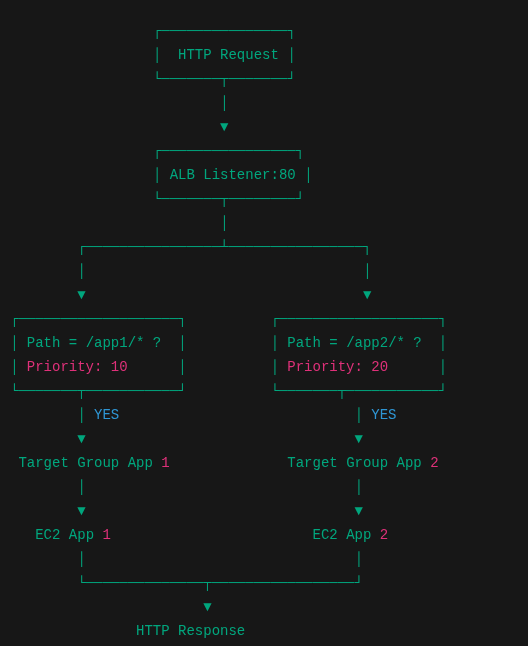
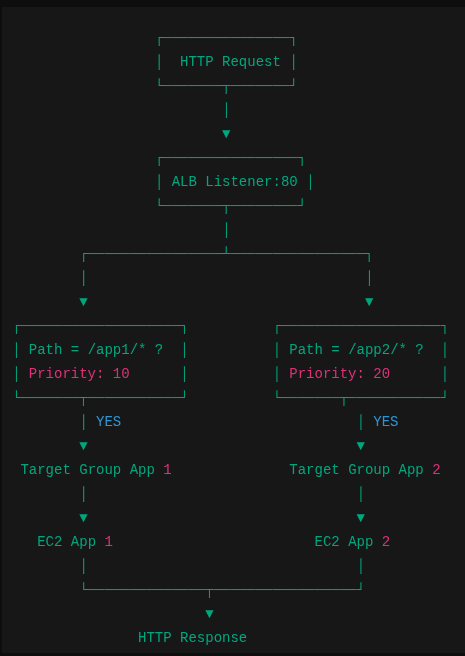
Add Day-18 README.md

diff --git a/Day-18-alb-adv/README.md b/Day-18-alb-adv/README.md
@@ -1,0 +1,55 @@
+# Day 18 – ALB Advanced Routing with Terraform
+
+## What This Builds
+This module configures advanced Application Load Balancer (ALB) routing
+using path-based rules to direct traffic to different target groups
+based on URL paths.
+
+## AWS Services Used
+- Application Load Balancer (ALB)
+- Target Groups
+- Amazon EC2
+- Amazon VPC
+
+## Resources Created
+- Application Load Balancer
+- Multiple Target Groups
+- Listener Rules (Path-Based Routing)
+- EC2 Instances
+
+## Architecture
+
+![ALB Path-Based Routing Architecture](./architecture.png)
+
+## Traffic Flow Explanation
+HTTP Request  
+→ ALB Listener (Port 80)  
+→ Rule 1: `/app1/*` (Priority 10) → Target Group App 1 → EC2 App 1  
+→ Rule 2: `/app2/*` (Priority 20) → Target Group App 2 → EC2 App 2  
+→ HTTP Response
+
+## How to Deploy
+
+```bash
+terraform init
+terraform plan
+terraform apply
+```
+
+## How to Verify
+
+- Access : ```http://<ALB-DNS>/app1/```
+- Access : ```http://<ALB-DNS>/app2/```
+- Confirm traffic routes to correct EC2 instance
+
+## How to Clen Up
+
+```bash
+terraforn destroy
+```
+
+## Key Learnings
+
+- Path basde routing
+- Managing multiple application behind a single ALB
+- How ALB listener rules work
